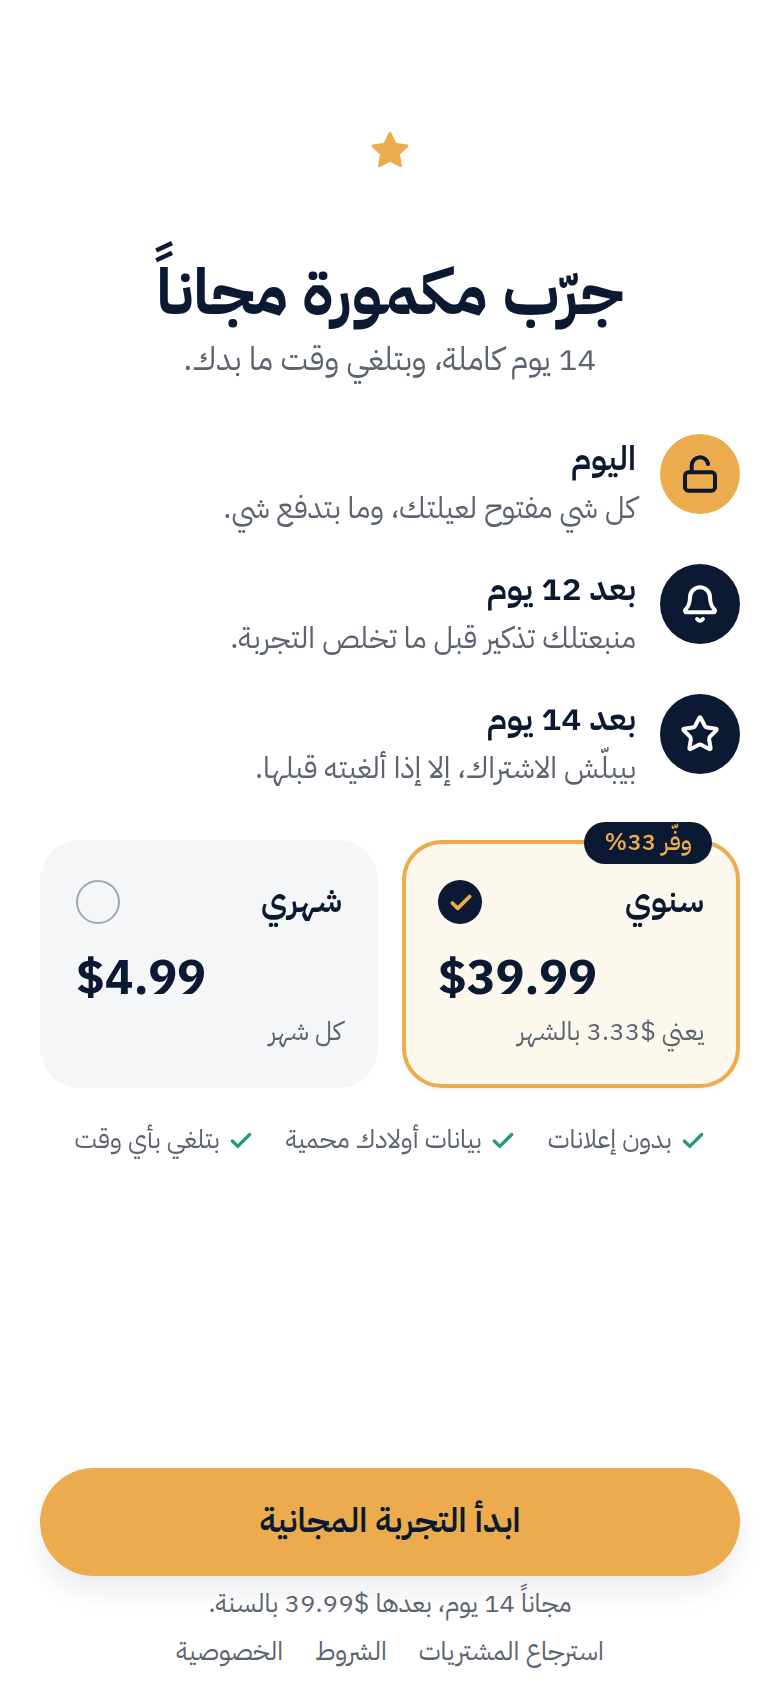
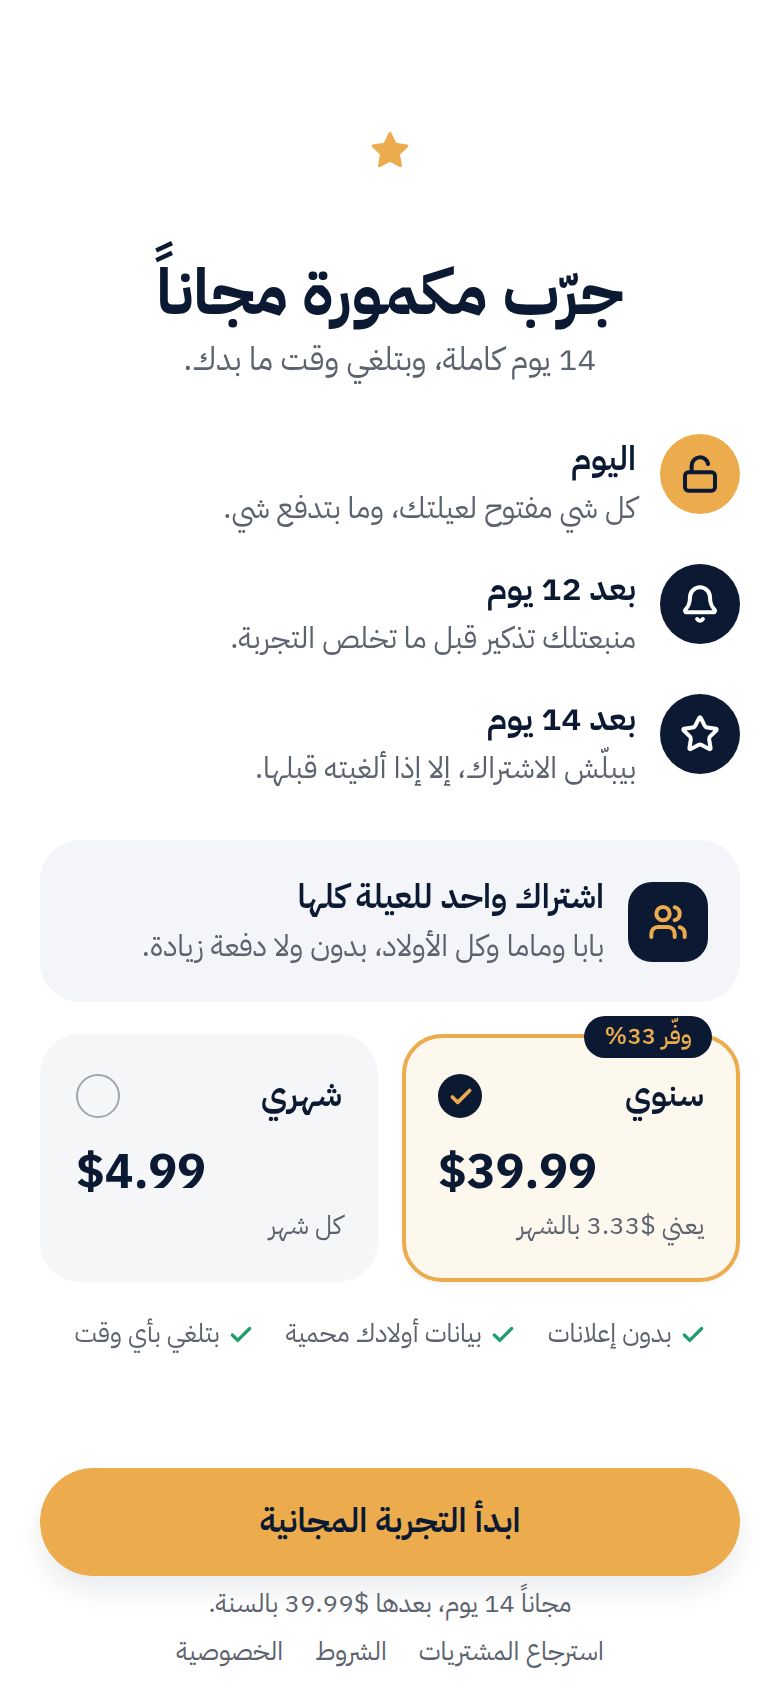
Both parents equal: record who approved, one family subscription on the paywall
Claude-Session: https://claude.ai/code/session_01RDAVNZzgeCwRhwwmPPkyYB

diff --git a/app/src/state/store.ts b/app/src/state/store.ts
@@ -25,8 +25,8 @@ export type Child = {
   tasks: Task[];
   goal?: Goal;
   balance: number;
-  today: Record<string, { state: TaskState; at?: number }>;   // task id → today's state
-  approved: { taskId: string; at: number; reward: number }[]; // history of approvals
+  today: Record<string, { state: TaskState; at?: number; by?: Parent['role'] }>;   // task id → today's state, and which parent approved it
+  approved: { taskId: string; at: number; reward: number; by?: Parent['role'] }[]; // history of approvals
 };
 export type Parent = { name: string; role: 'بابا' | 'ماما'; avatar: AvatarKey; email?: string; via?: 'apple' | 'google' | 'email' };
 export type Surprise = { key: string; title?: string; icon?: IconName; condition: 'all' | 'manual'; status: 'armed' | 'earned'; seenBy: string[] };
@@ -39,6 +39,7 @@ type Family = {
   subscription: { status: 'none' | 'trial' | 'active'; plan?: 'year' | 'month'; startedAt?: number };
   surprise?: Surprise;
   invitedPartner?: string;
+  partnerJoined?: boolean;          // the other parent accepted: same rights, free under the one family subscription
   familyCode: string;
   mode: 'parent' | 'child';         // what this device shows
   activeChildId?: string;           // on a child's device
@@ -82,6 +83,12 @@ export const templateToTask = (key: string): Task => {
   const t = TASK_TEMPLATES.find((x) => x.key === key)!;
   return { id: uid(), key: t.key, name: t.name, icon: t.icon, did: t.did, reward: t.reward, days: EVERY() };
 };
+
+/** "وافق بابا" / "وافقت ماما" */
+export const approvedBy = (by?: Parent['role']) => (by === 'ماما' ? 'وافقت ماما' : by === 'بابا' ? 'وافق بابا' : 'تم');
+/** Who the child is waiting for: one parent, or both once the other joined. */
+export const waitingFor = (p?: Parent, partnerJoined?: boolean) =>
+  partnerJoined ? `${p?.role === 'ماما' ? 'ماما أو بابا' : 'بابا أو ماما'}` : p?.role ?? 'بابا';
 
 /** What a surprise shows: its own title and icon, or the ready-made one it came from. */
 export function surpriseInfo(s?: Surprise): { icon: IconName; title: string } | undefined {
@@ -129,10 +136,11 @@ export const useFamily = create<Family & Actions>()(
           const next = mapChild(s, childId, (c) => {
             const t = c.tasks.find((x) => x.id === taskId);
             if (!t || c.today[taskId]?.state !== 'waiting') return c;
+            const by = s.parent?.role;
             return {
               ...c, balance: c.balance + t.reward,
-              today: { ...c.today, [taskId]: { state: 'done', at: Date.now() } },
-              approved: [...c.approved, { taskId, at: Date.now(), reward: t.reward }],
+              today: { ...c.today, [taskId]: { state: 'done', at: Date.now(), by } },
+              approved: [...c.approved, { taskId, at: Date.now(), reward: t.reward, by }],
             };
           });
           // a family surprise set for "everyone finished everything" is earned the moment it becomes true
@@ -170,13 +178,15 @@ export function seedDemoFamily() {
   s.setGoal(louai.id, { name: 'علبة ألوان', icon: 'palette', amount: 40 });
   useFamily.setState((st) => ({
     onboarded: true,
+    invitedPartner: 'reem@icloud.com',
+    partnerJoined: true,
     subscription: { status: 'trial', plan: 'year', startedAt: Date.now() },
     children: st.children.map((c, i) => {
       const t = c.tasks;
       const today: Child['today'] =
         i === 0
-          ? { [t[0].id]: { state: 'done', at: Date.now() - 3600e3 }, [t[1].id]: { state: 'waiting', at: Date.now() - 10 * 60e3 }, [t[2].id]: { state: 'waiting', at: Date.now() - 25 * 60e3 } }
-          : { [t[0].id]: { state: 'done', at: Date.now() - 3600e3 }, [t[1].id]: { state: 'done', at: Date.now() - 1800e3 }, [t[2].id]: { state: 'waiting', at: Date.now() - 5 * 60e3 } };
+          ? { [t[0].id]: { state: 'done', at: Date.now() - 3600e3, by: 'ماما' }, [t[1].id]: { state: 'waiting', at: Date.now() - 10 * 60e3 }, [t[2].id]: { state: 'waiting', at: Date.now() - 25 * 60e3 } }
+          : { [t[0].id]: { state: 'done', at: Date.now() - 3600e3, by: 'بابا' }, [t[1].id]: { state: 'done', at: Date.now() - 1800e3, by: 'ماما' }, [t[2].id]: { state: 'waiting', at: Date.now() - 5 * 60e3 } };
       return { ...c, today, balance: i === 0 ? 112 : 26 };
     }),
   }));

diff --git a/app/src/app/(parent)/settings.tsx b/app/src/app/(parent)/settings.tsx
@@ -30,7 +30,7 @@ export default function Settings() {
       <Group>
         <Row lead={<Avatar avatar={f.parent?.avatar ?? 'man'} size={40} />} title={<T v="headline">{f.parent?.name ?? ''}</T>} sub={`${f.parent?.role ?? ''} · إنت`} />
         {f.invitedPartner
-          ? <Row lead={<Avatar avatar={f.parent?.role === 'ماما' ? 'man' : 'woman'} size={40} />} title={f.parent?.role === 'ماما' ? 'بابا' : 'ماما'} sub={<T v="footnote" c={color.gold700}>{`بعتنا دعوة لـ${f.invitedPartner}`}</T>} />
+          ? <Row lead={<Avatar avatar={f.parent?.role === 'ماما' ? 'man' : 'woman'} size={40} />} title={f.parent?.role === 'ماما' ? 'بابا' : 'ماما'} sub={f.partnerJoined ? 'نفس صلاحياتك' : <T v="footnote" c={color.gold700}>{`بعتنا دعوة لـ${f.invitedPartner}`}</T>} />
           : <Row onPress={() => setInvite(true)} lead={<Lead I={UserPlus} />} title={<T v="body" c={color.link}>{`ادعُ ${f.parent?.role === 'ماما' ? 'الأب' : 'الأم'}`}</T>} />}
         <Row onPress={() => router.push('/kids')} lead={<Lead I={UserPlus} />} title="الأولاد" sub={f.children.map((c) => c.name).join('، ')} end={<ChevronLeft size={18} color={color.text3} />} />
       </Group>
@@ -47,7 +47,7 @@ export default function Settings() {
         <Row lead={<Lead I={KeyRound} />} title={Platform.OS === 'ios' ? 'Face ID للموافقات' : 'البصمة للموافقات'}
           end={<Switch value={f.secured} onValueChange={async (v) => { if (!v || (await confirmParent())) f.setSecured(v); }} trackColor={{ true: color.gold, false: color.navy100 }} thumbColor={color.white} {...({ activeThumbColor: color.white } as object)} />} />
         <Row lead={<Lead I={CreditCard} />} title="الاشتراك"
-          sub={f.subscription.status === 'trial' ? `تجربة مجانية · باقي ${trialLeft} يوم` : f.subscription.status === 'active' ? (f.subscription.plan === 'year' ? 'سنوي' : 'شهري') : 'ما في اشتراك'} />
+          sub={f.subscription.status === 'trial' ? `للعيلة كلها · تجربة مجانية، باقي ${trialLeft} يوم` : f.subscription.status === 'active' ? (f.subscription.plan === 'year' ? 'سنوي' : 'شهري') : 'ما في اشتراك'} />
         <Row lead={<Lead I={Globe} />} title="العملة" sub="حسب منطقة جهازك" end={<T v="headline">{cur.code}</T>} />
       </Group>
 
@@ -55,7 +55,7 @@ export default function Settings() {
       <View style={{ height: 110 }} />
 
       <Sheet open={invite} onClose={() => setInvite(false)} title="دعوة">
-        <T v="subhead" c={color.text2} style={{ marginBottom: space.m }}>رح يوصلها رابط لتنزيل مكمورة والدخول على نفس العيلة، وبيقدر يوافق على المهام متلك.</T>
+        <T v="subhead" c={color.text2} style={{ marginBottom: space.m }}>رح يوصله رابط لينزّل مكمورة ويفوت على نفس العيلة. بيضيف مهام وبيوافق متلك تماماً، وما بيدفع شي.</T>
         <Field label="البريد" value={mail} onChangeText={setMail} keyboardType="email-address" autoCapitalize="none" placeholder="name@email.com" />
         <Button title="إرسال الدعوة" disabled={!/^[^@\s]+@[^@\s]+\.[^@\s]+$/.test(mail.trim())} style={{ marginTop: space.l }} onPress={() => { f.invitePartner(mail.trim()); setInvite(false); }} />
       </Sheet>

diff --git a/app/src/ui/child-view.tsx b/app/src/ui/child-view.tsx
@@ -3,7 +3,7 @@ import { Check, Hourglass } from 'lucide-react-native';
 import { useEffect, useRef, type ReactNode } from 'react';
 import { Animated, Pressable, StyleSheet, View } from 'react-native';
 
-import { useFamily, type Child, type TaskState } from '@/state/store';
+import { approvedBy, useFamily, waitingFor, type Child, type TaskState } from '@/state/store';
 import { success, tap } from '@/services/haptics';
 import { color, radius, shadow, space } from '@/theme/tokens';
 import { Avatar, Glyph, Money, Progress, T } from '@/ui/kit';
@@ -16,6 +16,7 @@ const greeting = () => (new Date().getHours() < 12 ? 'صباح الخير' : 'م
  */
 export function ChildView({ child, preview, onTask, headerEnd }: { child: Child; preview?: boolean; onTask?: (taskId: string, state: TaskState) => void; headerEnd?: ReactNode }) {
   const parent = useFamily((s) => s.parent);
+  const joined = useFamily((s) => s.partnerJoined);
   const g = child.goal;
   const pct = g ? child.balance / g.amount : 0;
   const state = (id: string, i: number): TaskState => (preview ? (i === 0 ? 'waiting' : 'todo') : child.today[id]?.state ?? 'todo');
@@ -54,7 +55,7 @@ export function ChildView({ child, preview, onTask, headerEnd }: { child: Child;
       <T v="title3">مهامي اليوم</T>
       <View style={st.grid}>
         {child.tasks.map((t, i) => (
-          <TaskTile key={t.id} name={t.name} icon={t.icon} reward={t.reward} state={state(t.id, i)} parentWord={parent?.role ?? 'بابا'}
+          <TaskTile key={t.id} name={t.name} icon={t.icon} reward={t.reward} state={state(t.id, i)} parentWord={waitingFor(parent, joined)} doneWord={approvedBy(child.today[t.id]?.by)}
             onPress={preview || !onTask ? undefined : () => onTask(t.id, state(t.id, i))} />
         ))}
       </View>
@@ -62,8 +63,8 @@ export function ChildView({ child, preview, onTask, headerEnd }: { child: Child;
   );
 }
 
-function TaskTile({ name, icon, reward, state, parentWord, onPress }:
-  { name: string; icon: Parameters<typeof Glyph>[0]['name']; reward: number; state: TaskState; parentWord: string; onPress?: () => void }) {
+function TaskTile({ name, icon, reward, state, parentWord, doneWord, onPress }:
+  { name: string; icon: Parameters<typeof Glyph>[0]['name']; reward: number; state: TaskState; parentWord: string; doneWord: string; onPress?: () => void }) {
   const pop = useRef(new Animated.Value(1)).current;
   const prev = useRef(state);
   useEffect(() => {
@@ -85,7 +86,7 @@ function TaskTile({ name, icon, reward, state, parentWord, onPress }:
         <View style={{ opacity: state === 'done' ? 0.45 : 1 }}><Glyph name={icon} size={64} /></View>
         <T v="headline" center numberOfLines={1} c={state === 'done' ? color.text2 : color.text}>{name}</T>
         {state === 'waiting' ? <T v="caption" c={color.gold700}>{`بانتظار ${parentWord}`}</T>
-          : state === 'done' ? <T v="caption" c={color.successText}>تم</T>
+          : state === 'done' ? <T v="caption" c={color.successText}>{doneWord}</T>
           : <Money n={reward} v="caption" c={color.text2} />}
       </Animated.View>
     </Pressable>

diff --git a/app/src/app/started.tsx b/app/src/app/started.tsx
@@ -25,14 +25,14 @@ export default function Started() {
           <View style={{ width: 44, height: 44, borderRadius: 12, backgroundColor: color.navy, alignItems: 'center', justifyContent: 'center' }}><HandHeart size={22} color={color.gold} /></View>
           <View style={{ flex: 1 }}>
             <T v="headline">{`بدك ${other} يتابع معك؟`}</T>
-            <T v="footnote" c={color.text2}>بيوافق على المهام متلك، من موبايله.</T>
+            <T v="footnote" c={color.text2}>نفس صلاحياتك، ومن موبايله. ببلاش ضمن اشتراكك.</T>
           </View>
           {invitedPartner ? <View style={{ flexDirection: 'row', alignItems: 'center', gap: 4 }}><Check size={14} color={color.success} strokeWidth={3} /><T v="footnote" c={color.successText}>انبعتت</T></View>
             : <Button small kind="tinted" title="دعوة" onPress={() => setOpen(true)} />}
         </Card>
       </View>
       <Sheet open={open} onClose={() => setOpen(false)} title="دعوة">
-        <T v="subhead" c={color.text2} style={{ marginBottom: space.m }}>رح يوصلها رابط لتنزيل مكمورة والدخول على نفس العيلة.</T>
+        <T v="subhead" c={color.text2} style={{ marginBottom: space.m }}>رح يوصله رابط لينزّل مكمورة ويفوت على نفس العيلة. بيضيف مهام وبيوافق متلك تماماً، وما بيدفع شي.</T>
         <Field label="البريد" value={mail} onChangeText={setMail} keyboardType="email-address" autoCapitalize="none" placeholder="name@email.com" autoFocus />
         <Button title="إرسال الدعوة" disabled={!okEmail(mail)} onPress={() => { invitePartner(mail.trim()); setOpen(false); }} style={{ marginTop: space.l }} />
       </Sheet>

diff --git a/app/src/app/paywall.tsx b/app/src/app/paywall.tsx
@@ -1,5 +1,5 @@
 import { router } from 'expo-router';
-import { Bell, Check, LockOpen, Star } from 'lucide-react-native';
+import { Bell, Check, LockOpen, Star, Users } from 'lucide-react-native';
 import { useEffect, useState } from 'react';
 import { ActivityIndicator, Pressable, View } from 'react-native';
 
@@ -54,7 +54,14 @@ export default function Paywall() {
           </View>
         ))}
       </View>
-      <View style={{ flexDirection: 'row', gap: space.m, marginTop: space.xxl }}>
+      <View style={{ flexDirection: 'row', alignItems: 'center', gap: space.m, marginTop: space.xxl, padding: space.l, borderRadius: radius.card, backgroundColor: color.navy50 }}>
+        <View style={{ width: 40, height: 40, borderRadius: 12, backgroundColor: color.navy, alignItems: 'center', justifyContent: 'center' }}><Users size={20} color={color.gold} strokeWidth={2.4} /></View>
+        <View style={{ flex: 1 }}>
+          <T v="headline">اشتراك واحد للعيلة كلها</T>
+          <T v="subhead" c={color.text2}>بابا وماما وكل الأولاد، بدون ولا دفعة زيادة.</T>
+        </View>
+      </View>
+      <View style={{ flexDirection: 'row', gap: space.m, marginTop: space.l }}>
         {(['year', 'month'] as Plan[]).map((p) => {
           const on = plan === p;
           return (

diff --git a/app/src/app/child/home.tsx b/app/src/app/child/home.tsx
@@ -11,7 +11,7 @@ import { toast } from '@/ui/toast';
 
 /** The child's device: one screen, no tabs. Tap a task when it's done; a parent approves it. */
 export default function ChildHome() {
-  const { children, activeChildId, markDone, undoDone, parent, surprise, seeSurprise, setMode } = useFamily();
+  const { children, activeChildId, markDone, undoDone, parent, partnerJoined, surprise, seeSurprise, setMode } = useFamily();
   const child = children.find((c) => c.id === activeChildId);
   if (!child) return null;
   const sur = surpriseInfo(surprise);
@@ -26,7 +26,7 @@ export default function ChildHome() {
             <Lock size={14} color={color.navy} strokeWidth={2.4} /><T v="footnote" c={color.navy}>للأهل</T>
           </Pressable>
         } onTask={(id, state) => {
-          if (state === 'todo') { markDone(child.id, id); toast(<T v="subhead" c={color.white}>{`برافو! بعتناها لـ${parent?.role ?? 'بابا'}`}</T>); }
+          if (state === 'todo') { markDone(child.id, id); toast(<T v="subhead" c={color.white}>{`برافو! بعتناها لـ${partnerJoined ? (parent?.role === 'ماما' ? 'ماما وبابا' : 'بابا وماما') : parent?.role ?? 'بابا'}`}</T>); }
           else if (state === 'waiting') undoDone(child.id, id);
         }} />
       </View>

diff --git a/app/src/app/kid/[id].tsx b/app/src/app/kid/[id].tsx
@@ -3,7 +3,7 @@ import { Check, Hourglass, Pencil } from 'lucide-react-native';
 import { LinearGradient } from 'expo-linear-gradient';
 import { StyleSheet, View } from 'react-native';
 
-import { useFamily } from '@/state/store';
+import { approvedBy, useFamily } from '@/state/store';
 import { color, shadow, space } from '@/theme/tokens';
 import { days, daysLabel, years } from '@/ui/brand';
 import { Avatar, Button, Card, Glyph, Group, Money, NavBar, Progress, Row, Screen, SectionLabel, T } from '@/ui/kit';
@@ -64,7 +64,7 @@ export default function Kid() {
         {c.tasks.map((t) => {
           const s = c.today[t.id]?.state ?? 'todo';
           return (
-            <Row key={t.id} lead={<Glyph name={t.icon} />} title={t.name} sub={daysLabel(t.days)}
+            <Row key={t.id} lead={<Glyph name={t.icon} />} title={t.name} sub={s === 'done' ? <T v="footnote" c={color.successText}>{approvedBy(c.today[t.id]?.by)}</T> : daysLabel(t.days)}
               end={s === 'done' ? <Check size={20} color={color.success} strokeWidth={3} /> : s === 'waiting' ? <Hourglass size={18} color={color.gold700} /> : <Money n={t.reward} v="subhead" c={color.text2} />} />
           );
         })}

diff --git a/app/src/app/(parent)/today.tsx b/app/src/app/(parent)/today.tsx
@@ -113,7 +113,7 @@ export default function Today() {
       {!surprise ? (
         <Pressable onPress={() => router.push('/surprise')} style={({ pressed }) => [st.surprise, pressed && { opacity: 0.9 }]}>
           <Glyph name="gift" size={44} tone="gold" />
-          <View style={{ flex: 1 }}><T v="headline">جهّز مفاجأة للعيلة</T><T v="footnote" c={color.text2}>بيتزا، طلعة، ليلة أفلام، لما يخلّصوا كلهم مهامهم</T></View>
+          <View style={{ flex: 1 }}><T v="headline">جهّز مفاجأة للعيلة</T><T v="footnote" c={color.text2}>مشوار، غدا برا، فيلم المسا، لما يخلّصوا كلهم مهامهم</T></View>
           <ChevronLeft size={18} color={color.text3} />
         </Pressable>
       ) : surprise.status === 'armed' && sur ? (
